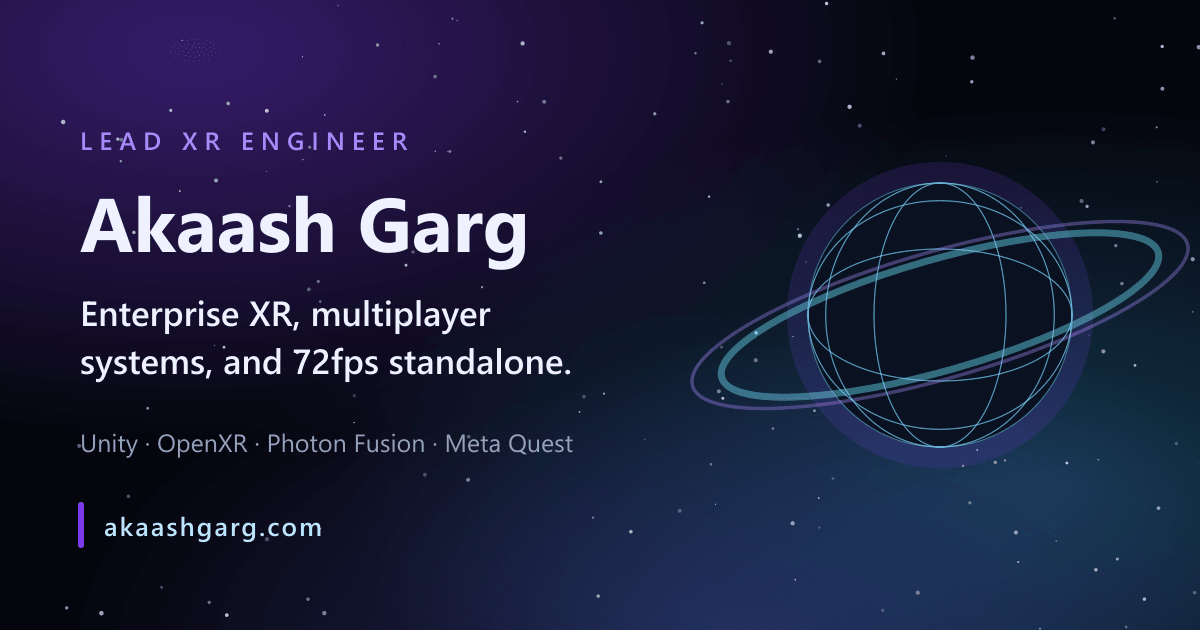
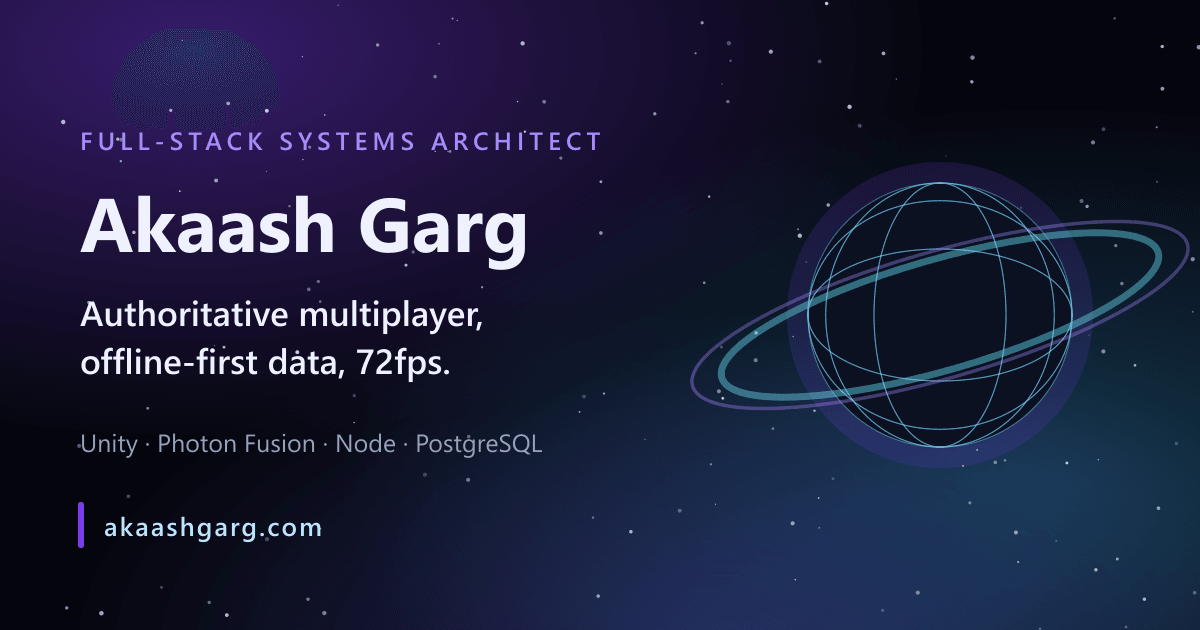
Reposition the profile as a full-stack systems architect
The site pitched XR engineering, which reads as a platform specialism
rather than an architecture practice. The underlying work already is
architecture - authoritative hosts, offline-first sync, relational
schemas, service boundaries - so this reframes around the problem class
(real-time distributed systems) and keeps XR as the proof rather than
the pitch.

- Home: new eyebrow, headline, and sub; expertise chips now state
  architecture properties instead of platform facts; stack tags surface
  the backend; services list leads with architecture.
- About: rewrote "What I do" into four architecture areas, replaced the
  stat cards, expanded the Cyber Cerebs entry from one line into the
  twelve years of full-stack delivery it actually was, and grouped the
  flat stack list into backend / real-time / engine / delivery.
- Services: added systems architecture and backend & platform
  engineering, plus an architecture & design sprint engagement.
- Metadata: jobTitle, knowsAbout, ProfessionalService, llms.txt, and the
  OG card regenerated to match.
- Resume source: new title and summary, skills reordered to lead with
  architecture, and the Aura VR venue count and frame rate aligned with
  the site-wide correction in 837c85d.

Changed region(s): [[0.0617, 0.4825, 0.4933, 0.6032], [0.0617, 0.0302, 0.4933, 0.2413], [0.1233, 0.6937, 0.4933, 0.7238]]

diff --git a/src/pages/llms.txt.ts b/src/pages/llms.txt.ts
@@ -13,10 +13,11 @@ import { getCollection } from 'astro:content';
  */
 
 const SUMMARY =
-  'Akaash Garg is the Lead XR Engineer at 2 Dude Studios, ' +
-  'based in Bangalore, India and working remotely worldwide. 17+ years in software, currently ' +
-  'focused on enterprise XR: Unity VR/AR product delivery, multiplayer systems, and ' +
-  'standalone-headset performance on Quest, HoloLens, Varjo, and SteamVR.';
+  'Akaash Garg is a full-stack systems architect and the technical lead at 2 Dude Studios, ' +
+  'based in Bangalore, India and working remotely worldwide. 17+ years in software — a decade of ' +
+  'full-stack web and product delivery, then six years architecting real-time distributed systems: ' +
+  'server-authoritative multiplayer, PostgreSQL and Node backends, offline-first data pipelines, and ' +
+  'Unity clients held inside a 13.9ms frame budget on standalone headsets.';
 
 /** Mirrors the nav. Descriptions are the same ones the pages carry in <head>. */
 const PAGES: Array<{ path: string; name: string; description: string }> = [
@@ -24,13 +25,13 @@ const PAGES: Array<{ path: string; name: string; description: string }> = [
     path: '/',
     name: 'Home',
     description:
-      'Overview of the practice: enterprise XR, multiplayer VR, and AR with real-time performance on Quest, HoloLens, Varjo, and SteamVR.',
+      'Overview of the practice: real-time and distributed system architecture, authoritative multiplayer, backend and data design, and clients held to a fixed frame budget.',
   },
   {
     path: '/services/',
     name: 'Services',
     description:
-      'XR engineering services — Unity VR and AR development, multiplayer systems, performance optimization, gamified training, and technical leadership. Explains how engagements are structured.',
+      'Systems architecture and design, backend and platform engineering, multiplayer systems, performance optimization, Unity VR and AR development, and technical leadership. Explains how engagements are structured.',
   },
   {
     path: '/projects/',
@@ -41,7 +42,7 @@ const PAGES: Array<{ path: string; name: string; description: string }> = [
     path: '/about/',
     name: 'About',
     description:
-      '17+ years in software, currently focused on multiplayer XR simulation for medical, industrial, and enterprise training.',
+      '17+ years in software: 12 years of full-stack web and product delivery, then six years of real-time distributed systems. Career history, grouped stack, and engagement options.',
   },
   {
     path: '/contact/',
@@ -52,11 +53,12 @@ const PAGES: Array<{ path: string; name: string; description: string }> = [
 ];
 
 const FACTS = [
-  'Role: Lead XR Engineer, 2 Dude Studios',
+  'Role: Full-stack systems architect and technical lead, 2 Dude Studios',
   'Based in: Bangalore, India (IST) — remote worldwide, with overlap for EU and US calls',
   'Client base: India, the United States, and the United Kingdom',
-  'Engagements: fixed-scope projects, monthly retainers, technical audits and rescues, and senior or long-term roles',
-  'Core stack: Unity, C#, OpenXR, AR Foundation, Photon and Netcode multiplayer, Meta Quest, HoloLens, Varjo, SteamVR',
+  'Engagements: architecture and design sprints, fixed-scope projects, monthly retainers, technical audits and rescues, and senior or long-term roles',
+  'Core stack: C#, Unity, Photon Fusion, Mirror, Node.js, Express, PostgreSQL, React, Supabase, OpenXR, AR Foundation',
+  'Specialism: server-authoritative state, client-side prediction and reconciliation, offline-first sync, relational data modelling, and performance against fixed frame budgets',
   'Languages: English, Hindi',
   'Availability: taking new engagements',
   'Contact: akaash.garg@gmail.com — https://cal.com/akaash-garg-xvijkt/hi',
@@ -78,7 +80,7 @@ export const GET: APIRoute = async ({ site }) => {
     return `- [${title}](${url(`/projects/${project.slug}/`)}): ${summary} (${context}. Stack: ${stack.join(', ')}.)`;
   });
 
-  const body = `# Akaash Garg — Lead XR Engineer
+  const body = `# Akaash Garg — Full-Stack Systems Architect
 
 > ${SUMMARY}
 

diff --git a/scripts/generate-og.js b/scripts/generate-og.js
@@ -85,11 +85,11 @@ const svg = `<svg xmlns="http://www.w3.org/2000/svg" width="${WIDTH}" height="${
   ${planet(940, 315, 132)}
 
   <g font-family="Segoe UI, Arial, Helvetica, sans-serif">
-    <text x="80" y="150" fill="#a78bfa" font-size="25" font-weight="600" letter-spacing="7">LEAD XR ENGINEER</text>
+    <text x="80" y="150" fill="#a78bfa" font-size="25" font-weight="600" letter-spacing="5">FULL-STACK SYSTEMS ARCHITECT</text>
     <text x="80" y="252" fill="#EFF1FF" font-size="76" font-weight="700">Akaash Garg</text>
-    <text x="80" y="326" fill="#EFF1FF" font-size="35" font-weight="600">Enterprise XR, multiplayer</text>
-    <text x="80" y="374" fill="#EFF1FF" font-size="35" font-weight="600">systems, and 72fps standalone.</text>
-    <text x="80" y="452" fill="#94A3B8" font-size="25">Unity · OpenXR · Photon Fusion · Meta Quest</text>
+    <text x="80" y="326" fill="#EFF1FF" font-size="35" font-weight="600">Authoritative multiplayer,</text>
+    <text x="80" y="374" fill="#EFF1FF" font-size="35" font-weight="600">offline-first data, 72fps.</text>
+    <text x="80" y="452" fill="#94A3B8" font-size="25">Unity · Photon Fusion · Node · PostgreSQL</text>
     <rect x="78" y="502" width="6" height="46" rx="3" fill="#7C3AED"/>
     <text x="104" y="536" fill="#bae6fd" font-size="26" font-weight="600" letter-spacing="2">akaashgarg.com</text>
   </g>

diff --git a/resources/Akaash_Garg_Resume.md b/resources/Akaash_Garg_Resume.md
@@ -1,6 +1,6 @@
 # AKAASH GARG
 
-**Founder & Lead XR Developer** · Unity · Photon · OpenXR · AR Foundation · 17+ yrs Software · 6 yrs XR & Games
+**Full-Stack Systems Architect** · Real-Time & Distributed Systems · Unity · Photon · Node · PostgreSQL · 17+ yrs Software
 
 Bangalore, India · Available for remote work worldwide
 akaash.garg@gmail.com · linkedin.com/in/akaashgarg · akaashgarg.com
@@ -9,7 +9,7 @@ akaash.garg@gmail.com · linkedin.com/in/akaashgarg · akaashgarg.com
 
 ## PROFESSIONAL SUMMARY
 
-Hands-on XR engineer and studio founder with 17+ years building and shipping software — moving into game development in 2019 and XR in 2020, with 6 years now specialized in Unity 3D and immersive technology. Expertise in AR/VR/MR frameworks (OpenXR, AR Foundation, XR Interaction Toolkit), multiplayer networking with Photon Fusion and Mirror, rendering pipelines (URP/HDRP), shader programming, and GPU optimization across Meta Quest, HoloLens, HTC Vive, and Varjo. Founded 2 Dude Studios and leads a 6-person team shipping location-based entertainment VR now running in commercial arenas, enterprise XR training, and *Ruins of the Forgotten*, an open-world survival game with a playable public demo on Steam. Previously led a multiplayer VR platform extending a 50M+ user IP and a photogrammetry-driven AR collaboration tool, after 12 years running a full-stack digital studio — combining product ownership and client accountability with daily engineering across gameplay, networking, and rendering.
+Full-stack systems architect with 17+ years shipping software — 12 years of web, mobile, and backend delivery as a studio founder, then six years architecting real-time distributed systems where the client runs on a fixed frame budget. Designs the whole stack: server-authoritative state models with client-side prediction and reconciliation (Photon Fusion, Mirror), PostgreSQL schemas and Node/Express APIs, offline-first ingestion that survives unreliable connectivity, and Unity clients held inside a 13.9ms budget on standalone hardware. Founded 2 Dude Studios and leads a 6-person team across three concurrent products: a free-roam location-based VR arena, an enterprise training platform on the PERN stack, and *Ruins of the Forgotten*, an open-world survival game with a public Steam demo. Previously architected the integration between a Unity VR client and a proprietary Java backend at sub-100ms for a 50M+ user IP, and led a 5-person team on a photogrammetry-driven multi-user AR platform. Combines architecture ownership and client accountability with daily hands-on engineering.
 
 ---
 
@@ -22,7 +22,7 @@ Hands-on XR engineer and studio founder with 17+ years building and shipping sof
 - **Founded the studio and lead a 6-person team** — 2 junior developers, a designer, a QA tester, and a business developer — owning architecture decisions, code review, sprint planning, hiring, and client delivery while remaining hands-on across gameplay, networking, and rendering every week.
 - **Built *Ruins of the Forgotten*, an open-world survival game with a playable public demo on Steam** *(Early Access launch Q3 2026)* — owning gameplay systems, procedurally generated island terrain, day/night simulation, wildlife AI behaviour, animation state machines, custom shaders, and the full Steamworks pipeline through build, depot, store page, and age-rating submission. → store.steampowered.com/app/2726410
 - **Engineered a networked enemy AI system on Photon** — server-authoritative behaviour trees and state machines with client-side prediction and interpolation, keeping AI perception, pathfinding, and combat decisions synchronized across clients without desync or duplicated damage events.
-- **Developed *Aura VR*, a location-based entertainment (LBE) VR platform now live in 3 commercial arenas** — free-roam multiplayer arena software on Meta Quest with Photon Fusion, avatar and physics synchronization at 90fps standalone, multi-headset co-location, and operator session-management tooling, delivered for a client operating VR gaming arenas across India.
+- **Architected *Aura VR*, free-roam location-based VR arena software for up to 8 co-located players** — a single authoritative host owning all session state while headsets contribute only input; a printed floor mat as the shared coordinate frame, so nothing spatial is networked and only poses already in a common frame replicate; depth-sensor floor correction; and offline-first session telemetry into Supabase behind a React operator dashboard, with disk queueing, backoff, and crash-journal reconciliation. Built to a 72fps standalone budget on Quest 3S, in development ahead of its first venue deployment.
 - **Delivered a gamified corporate compliance training product in VR** — converted regulatory curricula into scenario-based modules with branching decision paths and performance scoring, replacing slide-based training with rehearsable scenarios.
 - Delivered 15+ XR applications across Meta Quest, HoloLens, HTC Vive, and Varjo — training simulators, multiplayer experiences, and AR visualization tools, applying passthrough MR, hand tracking, and room-scale interaction models where the use case called for it.
 - Optimized rendering across URP and HDRP to hit Quest's 90fps frame budget — draw-call batching, LOD systems, texture atlasing, object pooling to control GC pressure, and custom HLSL/ShaderGraph shaders for realistic materials, lighting, and transparency on mobile XR hardware.
@@ -58,7 +58,7 @@ Hands-on XR engineer and studio founder with 17+ years building and shipping sof
 ## SHIPPED PRODUCTS
 
 **Ruins of the Forgotten: A Wild Survival** · Open-world survival, PC — public Steam demo live, Early Access Q3 2026 · [store.steampowered.com/app/2726410](https://store.steampowered.com/app/2726410/Ruins_of_the_Forgotten__A_Wild_Survival/)
-**Aura VR** · LBE free-roam VR arena software, live in 3 commercial venues — Photon Fusion, 90fps standalone, co-location
+**Aura VR** · LBE free-roam VR arena software, first venue deployment in build — Photon Fusion, 72fps standalone, 8-player co-location
 **CollaboratAR** · Photogrammetry-driven multi-user AR product collaboration — Mirror Networking, 8K texture fidelity on mobile
 **Big Cash Poker VR** · Meta Quest multiplayer on a 50M+ user IP — 3-month delivery
 **xrapp.dev** · Multi-user VR team training SaaS for logistics, manufacturing, and safety drills — Unity + PERN stack · [xrapp.dev](https://xrapp.dev/)
@@ -68,12 +68,13 @@ Hands-on XR engineer and studio founder with 17+ years building and shipping sof
 
 ## TECHNICAL SKILLS
 
+**Architecture:** Distributed state and authority models, service boundaries, coordinate and reference frames, relational schema design, offline-first sync with retry and reconciliation, failure and recovery design, multi-tenant models, architecture decision records
+**Multiplayer & Networked Systems:** Photon Fusion, Photon PUN, Mirror Networking, server-authoritative architecture, client-side prediction & interpolation, state synchronization & reconciliation, latency compensation, dedicated server hosting
+**Backend & Full-Stack:** PERN stack (PostgreSQL, Express, React, Node.js), REST API design, authentication & session management, Supabase, Python/Django, CI/CD and edge deployment (GitHub Actions, Cloudflare Workers)
 **Engines & XR SDKs:** Unity 3D, OpenXR, AR Foundation, XR Interaction Toolkit, Meta XR SDK, MRTK, ARKit, ARCore
-**Multiplayer & Networked Systems:** Photon Fusion, Photon PUN, Mirror Networking, server-authoritative architecture, client-side prediction & interpolation, state synchronization & reconciliation, latency compensation
+**Graphics & Performance:** URP, HDRP, HLSL, ShaderGraph, custom shaders, GPU profiling, draw-call batching, LOD systems, texture atlasing, Draco mesh compression, object pooling & GC optimization, 72fps standalone budgets (13.9ms)
 **Gameplay & AI:** Behaviour trees, finite state machines, NavMesh pathfinding, procedural generation, animation state machines, physics-based interaction, character controllers
-**Graphics & Performance:** URP, HDRP, HLSL, ShaderGraph, custom shaders, GPU profiling, draw-call batching, LOD systems, texture atlasing, Draco mesh compression, object pooling & GC optimization, 90fps standalone budgets
 **3D Pipeline:** Photogrammetry capture-to-runtime workflows, mesh decimation & retopology, UV/texture optimization, asset streaming
 **Mixed Reality & Interaction:** Passthrough MR, spatial anchors, hand tracking, room-scale and co-located multi-user setup
-**Platforms:** Meta Quest 2/3/Pro, HoloLens, HTC Vive, Varjo, PC (Steam/Steamworks), iOS, Android
-**Backend & Full-Stack:** PERN stack (PostgreSQL, Express, React, Node.js), REST API design, authentication & session management, dedicated server hosting for multiplayer
-**Languages & Tools:** C#, JavaScript/TypeScript, Python, HLSL, SQL, Git, Unity Profiler, RenderDoc, Blender, Jira, Agile/Scrum, CI/CD build pipelines
+**Platforms:** Meta Quest 2/3/Pro/3S, HoloLens, HTC Vive, Varjo, PC (Steam/Steamworks), iOS, Android
+**Languages & Tools:** C#, JavaScript/TypeScript, Python, HLSL, SQL, Git, Unity Profiler, RenderDoc, Blender, Jira, Agile/Scrum
